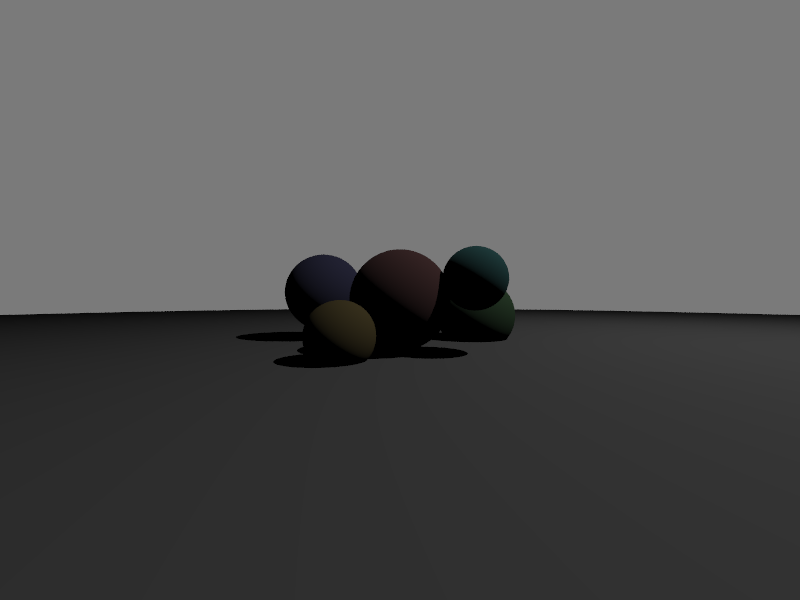
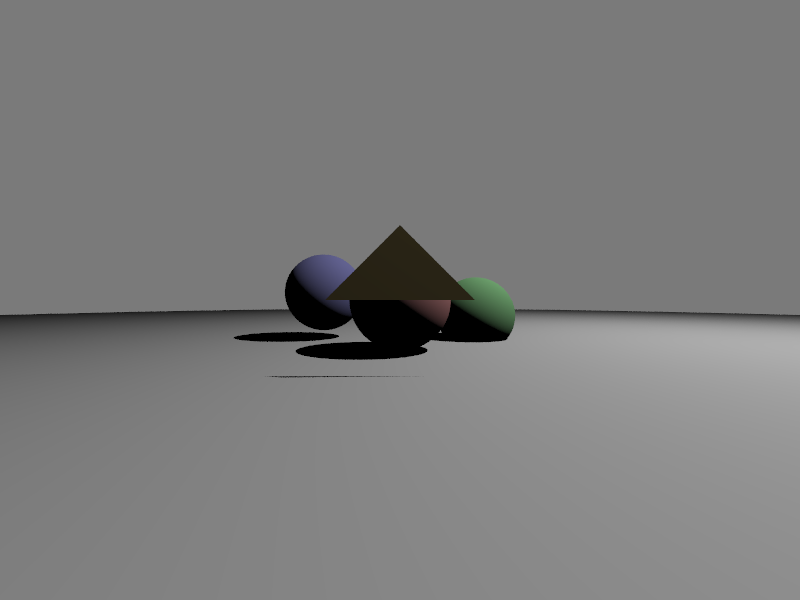
After restarting, o3-mini-high fixed the errors

diff --git a/src/main.rs b/src/main.rs
@@ -2,6 +2,7 @@ use image::{Rgb, RgbImage};
 use nalgebra::Vector3;
 use rand::{rngs::StdRng, Rng, SeedableRng};
 use std::cmp::Ordering;
+use std::fmt;
 use std::mem;
 
 // -------------------------
@@ -204,11 +205,17 @@ impl Hittable for Triangle {
 // -------------------------
 // BVH Node
 // -------------------------
-#[derive(Debug)]
 struct BVHNode {
     left: Box<dyn Hittable>,
     right: Box<dyn Hittable>,
     bbox: AABB,
+}
+
+// Custom Debug impl that only prints the bounding box.
+impl fmt::Debug for BVHNode {
+    fn fmt(&self, f: &mut fmt::Formatter<'_>) -> fmt::Result {
+        f.debug_struct("BVHNode").field("bbox", &self.bbox).finish()
+    }
 }
 
 impl BVHNode {
@@ -268,12 +275,6 @@ impl Clone for BVHNode {
             right: self.right.clone_box(),
             bbox: self.bbox.clone(),
         }
-    }
-}
-
-impl HittableClone for BVHNode {
-    fn clone_box(&self) -> Box<dyn Hittable> {
-        Box::new(self.clone())
     }
 }
 
@@ -435,8 +436,8 @@ fn main() {
 
     // Define a point light.
     let light = Light {
-        position: Vector3::new(5.0, 7.0, -2.0),
-        intensity: Vector3::new(10.0, 10.0, 10.0),
+        position: Vector3::new(5.0, 7.0, -2.4),
+        intensity: Vector3::new(100.0, 100.0, 100.0),
     };
 
     // Camera parameters.
